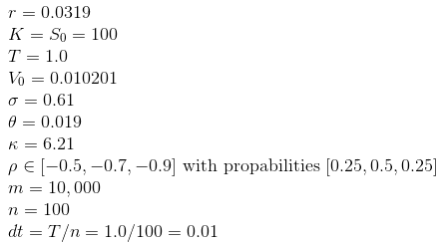
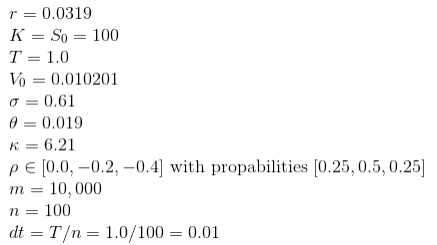
First working version.

diff --git a/heston.py b/heston.py
@@ -1,0 +1,116 @@
+"""
+This module contains the Monte Carlo simulation and plotting functions.
+"""
+
+import numpy as np
+import pandas as pd
+
+
+# ***************************************************************************************
+def simulate(settings):
+    """ Performs the Monte Carlo simulation.
+
+    Required Input Files:
+        settings.csv - Contains the constants to use in the Monte Carlo simulation.
+
+    Output Files:
+        simulation.png - Time evolution of the stock price.
+
+    Returns:
+        np.array:  [m, n+1] The m simulation results with n time steps.
+    """
+
+    # Read settings file
+    # -----------------------------------------------------------------------------------
+    r = settings['r']
+    k = settings['K']
+    s_o = settings['So']
+    t_max = settings['T']
+    v_o = settings['Vo']
+    sigma = settings['sigma']
+    theta = settings['theta']
+    kappa = settings['kappa']
+    n_rho = int(settings['n_rho'])
+    rho_choice = np.array([settings['rho_{}'.format(i)] for i in range(n_rho)])
+    rho_probability = np.array([settings['rho_probability_{}'.format(i)] for i in range(n_rho)])
+    m = int(settings['m'])
+    n = int(settings['n'])
+
+    # Create random parameters
+    # -----------------------------------------------------------------------------------
+    dt = t_max / n
+    dw_v = np.random.normal(size=(m, n)) * np.sqrt(dt)
+    dw_i = np.random.normal(size=(m, n)) * np.sqrt(dt)
+    rho = np.random.choice(rho_choice, size=(m, 1), p=rho_probability)
+    dw_s = rho * dw_v + np.sqrt(1.0 - rho ** 2) * dw_i
+
+    # Perform time evolution (only saving all s values for plotting)
+    #    Could also speed this up by using log-returns and coefficients for repeated
+    #    multiplication but this is easier to read.
+    # -----------------------------------------------------------------------------------
+    s = np.empty((m, n + 1))
+    s[:, 0] = s_o
+    v = np.ones(m) * v_o
+    for t in range(n):
+        dv = kappa * (theta - v) * dt + sigma * np.sqrt(v) * dw_v[:, t]
+        ds = r * s[:, t] * dt + np.sqrt(v) * s[:, t] * dw_s[:, t]
+        v = np.clip(v + dv, a_min=0.0, a_max=None)
+        s[:, t + 1] = s[:, t] + ds
+
+    # Calculate expected call option payoff and therefore option price
+    # -----------------------------------------------------------------------------------
+    expected_payoff = np.clip(s[:, -1] - k, a_min=0, a_max=None).mean()
+    c = expected_payoff * np.exp(-r * t_max)
+    print("Expected payoff is ${:.2f}.".format(expected_payoff))
+    print("Call option price is ${:.2f}.".format(c))
+
+    return s
+
+
+# ***************************************************************************************
+def plot(settings, s=None):
+    """ Generates the required plots from the simulation.
+
+    Output Files:
+        simulation.png - Time evolution of the stock price.
+
+    Args:
+        settings (pd.DataFrame):  Contents of settings.csv.
+        s (np.array):  The stock price histories.
+    """
+
+    # Make pretty plot
+    # -----------------------------------------------------------------------------------
+    import matplotlib.pyplot as plt
+    from matplotlib.ticker import NullFormatter
+    import seaborn as sns
+    sns.set(style="darkgrid")
+
+    # Setup figure
+    plt.figure()
+    left, width = 0.1, 0.65
+    bottom, height = 0.1, 0.8
+    left_h = left + width + 0.02
+    rect_lines = [left, bottom, width, height]
+    rect_histogram = [left_h, bottom, 0.2, height]
+    # noinspection PyTypeChecker
+    ax_lines = plt.axes(rect_lines)
+    # noinspection PyTypeChecker
+    ax_histogram = plt.axes(rect_histogram)
+
+    # Make the line plots
+    t = np.linspace(0, settings['T'], num=int(settings['n']) + 1)
+    for i in range(20):
+        ax_lines.plot(t, s[i, :], lw=1.0)
+    ax_lines.set(xlabel='Years', ylabel='Stock Price (St)',
+                 title='Stock Price Simulations (20 of {} plotted)'.format(int(settings['m'])))
+    ax_lines.set_xlim((0, 1))
+    ax_lines.set_ylim((70, 130))
+
+    # Make the histogram for the final stock prices S_T
+    bins = np.arange(70, 132, 2)
+    ax_histogram.hist(s[:, -1], bins=bins, orientation='horizontal')
+    ax_histogram.set_ylim(ax_lines.get_ylim())
+    ax_histogram.xaxis.set_major_formatter(NullFormatter())
+    ax_histogram.yaxis.set_major_formatter(NullFormatter())
+    plt.savefig("simulation.png")

diff --git a/run.py b/run.py
@@ -1,0 +1,42 @@
+"""
+This script runs the Monte Carlo simulation and generates the desired plots.
+
+Required Input Files:
+    settings.csv - Contains the constants to use in the Monte Carlo simulation.
+
+Output Files:
+    results.csv - Contains the results from the Monte Carlo simulation.
+    simulation.png - Time evolution of the stock price.
+"""
+
+import os
+import pandas as pd
+from time import time
+from heston import plot, simulate
+
+
+# ***************************************************************************************
+if __name__ == "__main__":
+
+    # Delete the old output files
+    # -----------------------------------------------------------------------------------
+    for name in ['simulation.png', 'results.csv']:
+        if os.path.isfile(name):
+            os.remove(name)
+
+    # Read the settings
+    # -----------------------------------------------------------------------------------
+    settings = pd.read_csv('settings.csv', squeeze=True, index_col='name')
+
+    # Perform the simulation
+    # -----------------------------------------------------------------------------------
+    print('Starting the simulation.')
+    start = time()
+    simulation_results = simulate(settings)
+    print("Simulation time: {:.1f} seconds.".format(time() - start))
+    print("Number of time steps is {:.0f}.".format(settings['n']))
+    print("Number of simulations is {:.0f}.".format(settings['m']))
+
+    # Make some pretty plots
+    # -----------------------------------------------------------------------------------
+    plot(settings, simulation_results)

diff --git a/README.md b/README.md
@@ -60,10 +60,23 @@ _Operations Research_, Vol. 54, No. 2, March-April, 2006, DOI: 10.1287/opre.1050
 
 
 ## How to execute the program
-TODO
+To run the program you need Python installed locally.  This was tested with Anaconda's 
+[distribution](https://www.anaconda.com/distribution/) of Python 3.7.  Once Python is installed you simply run the 
+following command.
+
+    >>python run.py 
 
 ## Summary of results
-TODO
+It took 1.1 seconds for 400 time steps and 16,000 simulation to predict an expected payoff of $7.08, which has a present
+value and hence option price of $6.86.  This was done with a correlation coefficient (𝜌)  of -0.7.  A subset of the time 
+histories are shown below for reference.
+
+![plot1](simulation_fixed_rho.png)  
+
+This was repeated but with 𝜌 sampled from [0.0, -0.2, -0.4] with probabilities [0.25, 0.5,. 0.25].  This caused the 
+option price to drop by about $0.2 to $6.62 with the stock price evolutions below. 
+
+![plot2](simulation.png)  
 
 ## License
 This code is copyright under the [MIT License](LICENSE).
